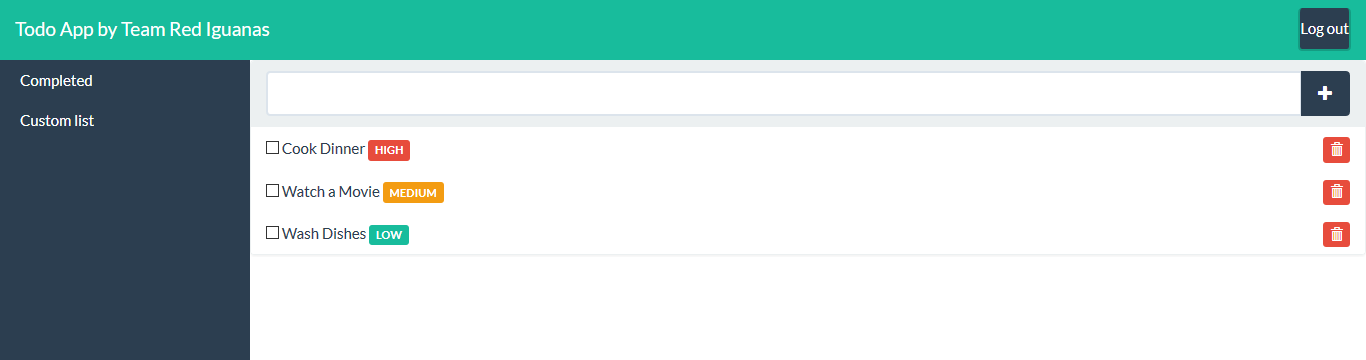
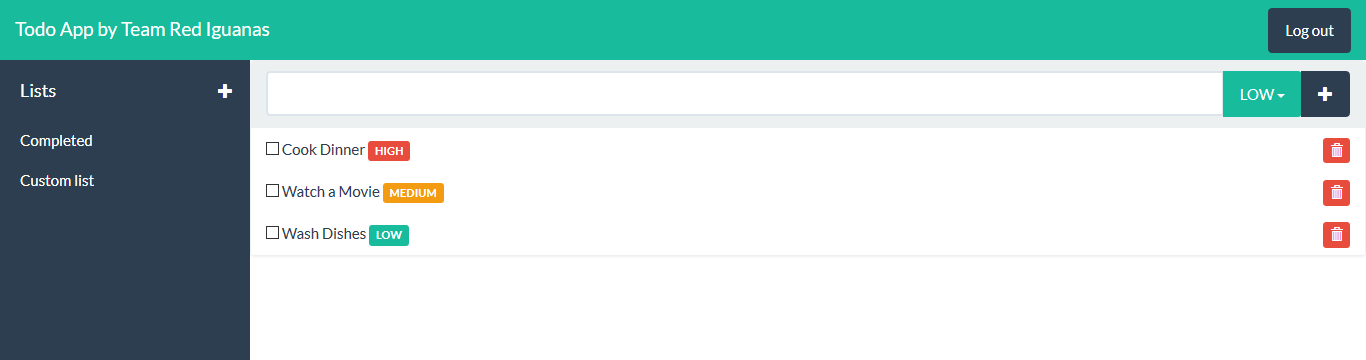
Sassified sidebar css

diff --git a/Client/styles/components/Sidebar.scss b/Client/styles/components/Sidebar.scss
@@ -1,123 +1,106 @@
 body {
-    overflow-x: hidden;
+  overflow-x: hidden;
  }
 
 /* Toggle Styles */
 
 #wrapper {
-    padding-left: 0;
-    -webkit-transition: all 0.5s ease;
-    -moz-transition: all 0.5s ease;
-    -o-transition: all 0.5s ease;
-    transition: all 0.5s ease;
-}
-
-#wrapper.toggled {
+  padding-left: 0;
+  -webkit-transition: all 0.5s ease;
+  -moz-transition: all 0.5s ease;
+  -o-transition: all 0.5s ease;
+  transition: all 0.5s ease;
+  &.toggled {
     padding-left: 250px;
+    #sidebar-wrapper {
+      width: 250px;
+    }
+    #page-content-wrapper {
+      position: absolute;
+      margin-right: -250px;
+    }
+  }
 }
 
 #sidebar-wrapper {
-    z-index: 1000;
-    position: fixed;
-    left: 250px;
-    width: 0;
-    height: 100%;
-    margin-left: -250px;
-    overflow-y: auto;
-    background: #2c3e50;
-    -webkit-transition: all 0.5s ease;
-    -moz-transition: all 0.5s ease;
-    -o-transition: all 0.5s ease;
-    transition: all 0.5s ease;
-}
-
-#wrapper.toggled #sidebar-wrapper {
-    width: 250px;
+  z-index: 1000;
+  position: fixed;
+  left: 250px;
+  width: 0;
+  height: 100%;
+  margin-left: -250px;
+  overflow-y: auto;
+  background: #2c3e50;
+  -webkit-transition: all 0.5s ease;
+  -moz-transition: all 0.5s ease;
+  -o-transition: all 0.5s ease;
+  transition: all 0.5s ease;
 }
 
 #page-content-wrapper {
-    width: 100%;
-    position: absolute;
-    padding: 15px;
-}
-
-#wrapper.toggled #page-content-wrapper {
-    position: absolute;
-    margin-right: -250px;
+  width: 100%;
+  position: absolute;
+  padding: 15px;
 }
 
 /* Sidebar Styles */
 
 .sidebar-nav {
-    position: absolute;
-    top: 0;
-    width: 250px;
-    margin: 0;
-    padding: 0;
-    list-style: none;
-}
-
-.sidebar-nav li {
+  position: absolute;
+  top: 0;
+  width: 250px;
+  margin: 0;
+  padding: 0;
+  list-style: none;
+  li {
     text-indent: 20px;
     line-height: 40px;
-}
-
-.sidebar-nav li a {
-    display: block;
-    text-decoration: none;
-    color: white;
-}
-
-.sidebar-nav li a:hover {
-    text-decoration: none;
-    color: #15a589;
-}
-
-.sidebar-nav li a:active,
-.sidebar-nav li a:focus {
-    text-decoration: none;
-    background: #2c3e50;
-}
-
-.sidebar-nav > .sidebar-brand {
-    height: 65px;
+    a {
+      display: block;
+      text-decoration: none;
+      color: white;
+      &:hover {
+        text-decoration: none;
+        color: #15a589
+      }
+      &:active,
+      &:focus {
+        text-decoration: none;
+        background: #2c3e50;
+      }
+    }
+  }
+  .sidebar-brand {
     font-size: 18px;
     line-height: 60px;
-}
-
-.sidebar-nav > .sidebar-brand a {
-    color: #999999;
-}
-
-.sidebar-nav > .sidebar-brand a:hover {
-    color: #fff;
-    background: none;
+    color: white;
+    .btn {
+      margin-top: 8px;
+    }
+  }
 }
 
 @media(min-width:768px) {
-    #wrapper {
-        padding-left: 250px;
-    }
-
-    #wrapper.toggled {
-        padding-left: 0;
-    }
-
-    #sidebar-wrapper {
-        width: 250px;
-    }
-
-    #wrapper.toggled #sidebar-wrapper {
+  #wrapper {
+    padding-left: 250px;
+    &.toggled {
+      padding-left: 0;
+      #sidebar-wrapper {
         width: 0;
-    }
-
-    #page-content-wrapper {
-        padding: 20px;
-        position: relative;
-    }
-
-    #wrapper.toggled #page-content-wrapper {
+      }
+      #page-content-wrapper {
         position: relative;
         margin-right: 0;
+      }
     }
+  }
+
+  #sidebar-wrapper {
+    width: 250px;
+  }
+
+  #page-content-wrapper {
+    padding: 20px;
+    position: relative;
+  }
 }

diff --git a/Client/src/components/TodoList/index.js b/Client/src/components/TodoList/index.js
@@ -16,9 +16,15 @@ export default class TodoList extends React.Component {
           <div className="panel-heading">
             <div className="input-group">
               <input type="text" className="form-control"/>
-              <span className="input-group-btn">
+              <div className="input-group-btn">
+                <button type="button" data-toggle="dropdown" aria-haspopup="true" aria-expanded="false" className="btn btn-success dropdown-toggle">LOW <span className="caret"></span></button>
+                <ul className="dropdown-menu">
+                  <li><a href="#"><span className="text-success">LOW</span></a></li>
+                  <li><a href="#"><span className="text-warning">MEDIUM</span></a></li>
+                  <li><a href="#"><span className="text-danger">HIGH</span></a></li>
+                </ul>
                 <button className="btn btn-primary" type="button"><span className="glyphicon glyphicon-plus"/></button>
-              </span>
+              </div>
             </div>
           </div>
           <ul className="list-group">

diff --git a/Client/src/components/NavBar/index.js b/Client/src/components/NavBar/index.js
@@ -7,9 +7,19 @@ export default class NavBar extends React.Component {
       <nav className="navbar navbar-inverse">
         <div className="container-fluid">
           <div className="navbar-header">
+            <button type="button" className="navbar-toggle collapsed" data-toggle="collapse" data-target=".navbar-collapse" aria-expanded="false">
+              <span className="sr-only">Toggle navigation</span>
+              <span className="icon-bar"/>
+              <span className="icon-bar"/>
+              <span className="icon-bar"/>
+            </button>
             <a className="navbar-brand" href="#">Todo App by Team Red Iguanas</a>
           </div>
-          <Link className="btn btn-primary nav navbar-nav navbar-collapse navbar-right navbar-btn" to={'/'}>Log out</Link>
+          <div className="collapse navbar-collapse">
+            <div className="nav navbar-nav navbar-right">
+              <Link className="btn btn-primary navbar-btn" to={'/'}>Log out</Link>
+            </div>
+          </div>
         </div>
       </nav>
     );

diff --git a/Client/src/components/Sidebar/index.js b/Client/src/components/Sidebar/index.js
@@ -3,19 +3,23 @@ import React from 'react';
 import SidebarEntry from './SidebarEntry';
 
 export default class Sidebar extends React.Component {
-	render() {
-		const { sidebarList } = this.props;
+  render() {
+    const { sidebarList } = this.props;
 
-		const sidebarItems = sidebarList.map((item) => {
-	        return <SidebarEntry key={item.id} {...item}/>;
-	    });
+    const sidebarItems = sidebarList.map((item) => {
+      return <SidebarEntry key={item.id} {...item}/>;
+    });
 
-		return (
-			<div id="sidebar-wrapper">
-				<ul className="sidebar-nav">
-					{sidebarItems}
-				</ul>
-			</div>
-		);
-	}
+    return (
+      <div id="sidebar-wrapper">
+        <ul className="sidebar-nav">
+          <li className="sidebar-brand">
+            <a className="btn btn-link pull-right"><span className="glyphicon glyphicon-plus"/></a>
+            <span>Lists</span>
+          </li>
+          {sidebarItems}
+        </ul>
+      </div>
+    );
+  }
 }

diff --git a/Client/dist/index.html b/Client/dist/index.html
@@ -5,10 +5,12 @@
     <meta http-equiv="X-UA-Compatible" content="IE=edge">
     <meta name="viewport" content="width=device-width, initial-scale=1">
     <title>Todo App by Team Red Iguanas</title>
-    <link href="https://maxcdn.bootstrapcdn.com/bootswatch/3.3.6/flatly/bootstrap.min.css" rel="stylesheet">
+    <link href="https://cdnjs.cloudflare.com/ajax/libs/bootswatch/3.3.6/flatly/bootstrap.min.css" rel="stylesheet">
   </head>
   <body>
     <div id="app"></div>
-    <script src="bundle.js"></script>
+    <script defer src="https://cdnjs.cloudflare.com/ajax/libs/jquery/2.2.4/jquery.min.js"></script>
+    <script defer src="https://cdnjs.cloudflare.com/ajax/libs/twitter-bootstrap/3.3.6/js/bootstrap.min.js"></script>
+    <script defer src="bundle.js"></script>
   </body>
 </html>

diff --git a/Client/src/components/Sidebar/SidebarEntry.js b/Client/src/components/Sidebar/SidebarEntry.js
@@ -1,16 +1,13 @@
 import React from 'react';
 
 export default class SidebarEntry extends React.Component {
+  render() {
+    const { listName } = this.props;
 
-	render() {
-		const { listName } = this.props;
-
-		return (
-			<div>
-				<li>
-					<a href="#">{listName}</a>
-				</li>
-			</div>
-		);
-	}
+    return (
+      <li>
+        <a href="#">{listName}</a>
+      </li>
+    );
+  }
 }
